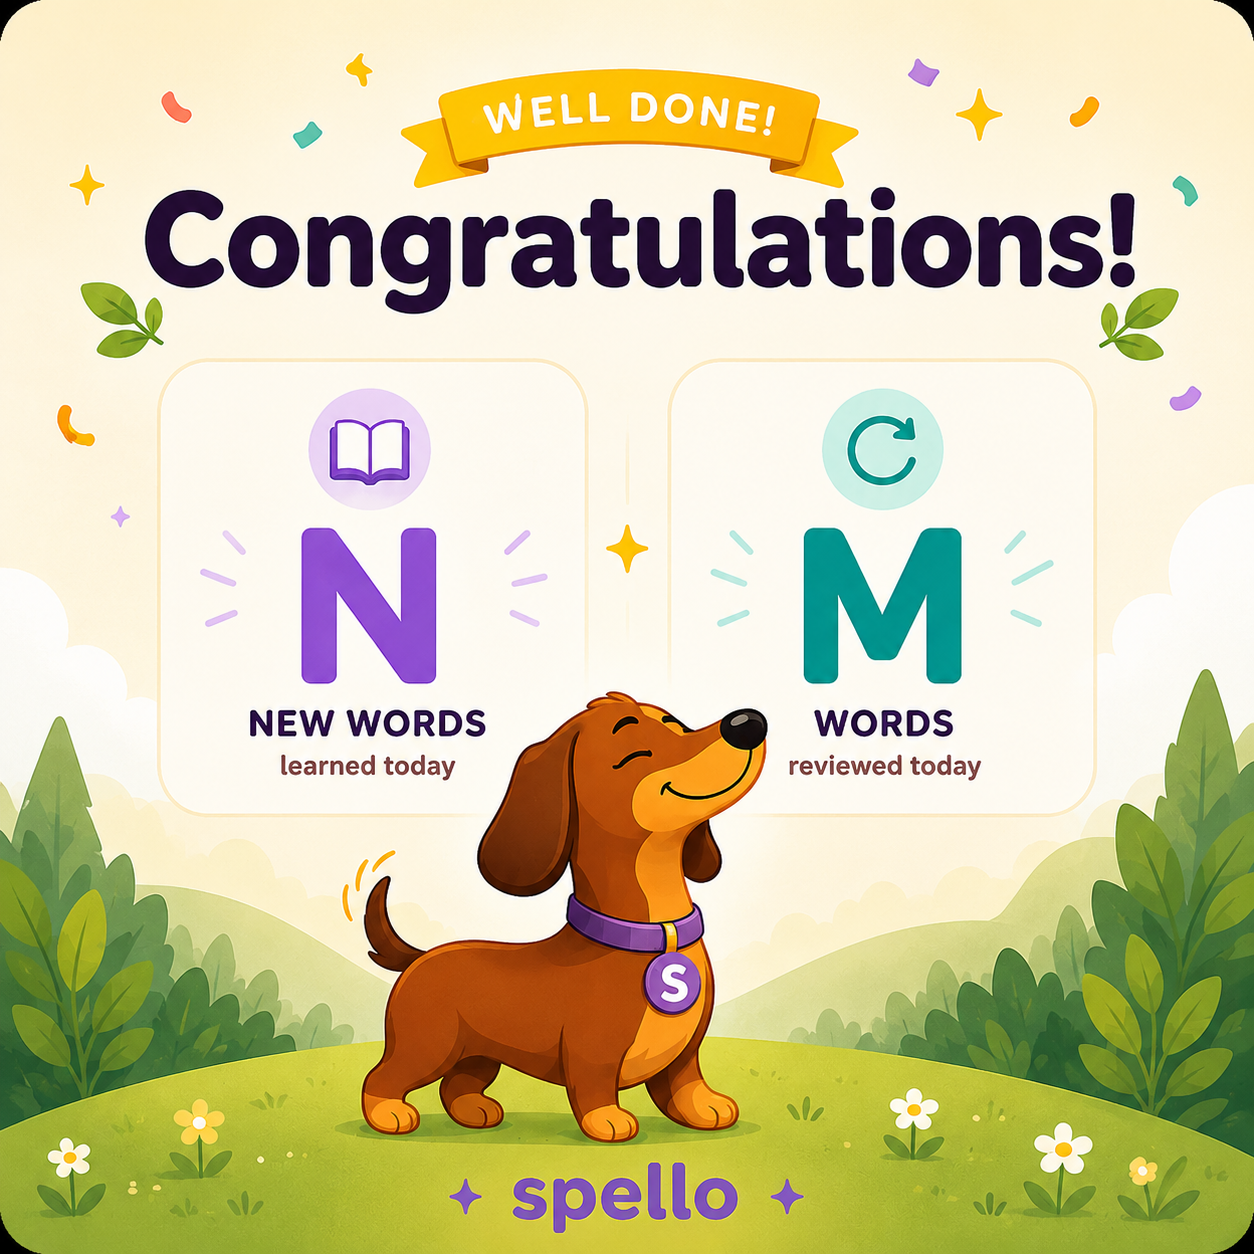
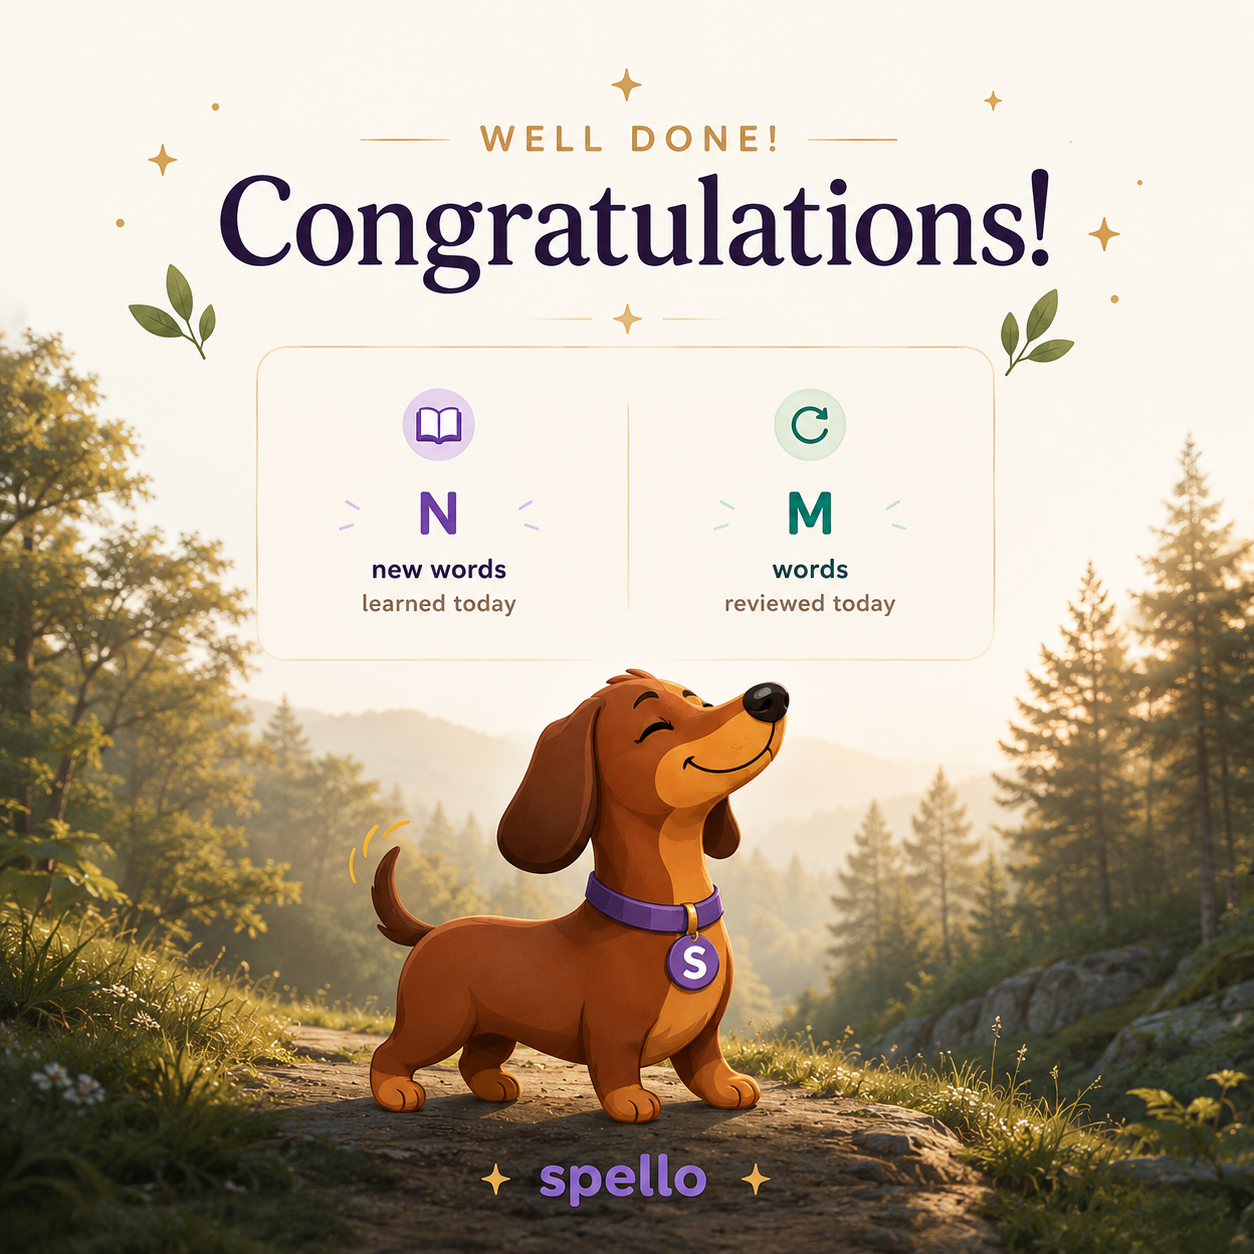
Swap in new congrats card artwork (v2)
Replaced the background art and remeasured the N/M placeholder
coordinates for the new illustration (different layout/scale than the
original). Learned from the last artifact: a same-color tolerance match
isn't reliable near other similarly-colored elements, so this time the
glyph bounds were measured directly off a pixel-zoomed grid rather than
color-matched — the icon circle above and the "new words"/"words" label
below both sit close enough to bleed into a looser match otherwise.

diff --git a/components/CongratsModal.tsx b/components/CongratsModal.tsx
@@ -13,20 +13,21 @@ interface Props {
   date?: string;
 }
 
-// public/congrats.png is the shareable card's background art (1254x1254) —
+// public/congrats.png is the shareable card's background art (1254x1254,
+// "v2" as of 2026-07 — a different illustration than the original) —
 // hand-designed with placeholder "N"/"M" glyphs marking where the actual
 // new-words/reviewed counts get overlaid at render time. These are that
-// artwork's exact pixel coordinates (see the design session that measured
-// them): each glyph's bounding box, used both to blank out the placeholder
-// and to center the real number in the same spot.
+// glyph's exact pixel bounds (measured directly off the PNG, zoomed in
+// pixel-by-pixel — a same-color tolerance match alone isn't reliable here,
+// since both the icon above and the "new words"/"words" label below sit
+// close enough in color and position to bleed into a looser match). The
+// cover rectangle's padding must land in the gap on each side: below the
+// icon circle (bottom edge ≈460) and above the label text (top edge ≈558)
+// — eating into either one leaves a stray fragment of it behind.
 const IMG_SIZE = 1254;
-// y0 starts right below the icon circle (which sits at y≈388-510) — it must
-// NOT reach up into the circle, or blanking out the placeholder glyph also
-// erases part of the circle and leaves a stray sliver of it behind (the
-// artifact this exact measurement was fixing).
-const NEW_WORDS_BOX = { x0: 302, x1: 435, y0: 528, y1: 682 };
-const REVIEWED_BOX = { x0: 804, x1: 960, y0: 528, y1: 682 };
-const CARD_BG = '#fefbf2';
+const NEW_WORDS_BOX = { x0: 410, x1: 467, y0: 487, y1: 533 };
+const REVIEWED_BOX = { x0: 780, x1: 838, y0: 487, y1: 533 };
+const CARD_BG = '#fbf7ee';
 
 function drawCount(ctx: CanvasRenderingContext2D, box: typeof NEW_WORDS_BOX, value: number, color: string) {
   const cx = (box.x0 + box.x1) / 2;
@@ -69,8 +70,8 @@ export default function CongratsModal({ studiedCount, reviewedCount, language, o
       if (cancelled) return;
 
       ctx.drawImage(bg, 0, 0, IMG_SIZE, IMG_SIZE);
-      drawCount(ctx, NEW_WORDS_BOX, studiedCount, '#7c3aed');
-      drawCount(ctx, REVIEWED_BOX, reviewedCount, '#0d9488');
+      drawCount(ctx, NEW_WORDS_BOX, studiedCount, '#603096');
+      drawCount(ctx, REVIEWED_BOX, reviewedCount, '#066354');
 
       // Small date stamp in the open cream space top-right, so a saved/
       // shared image is still self-explanatory (and a reopened past day
